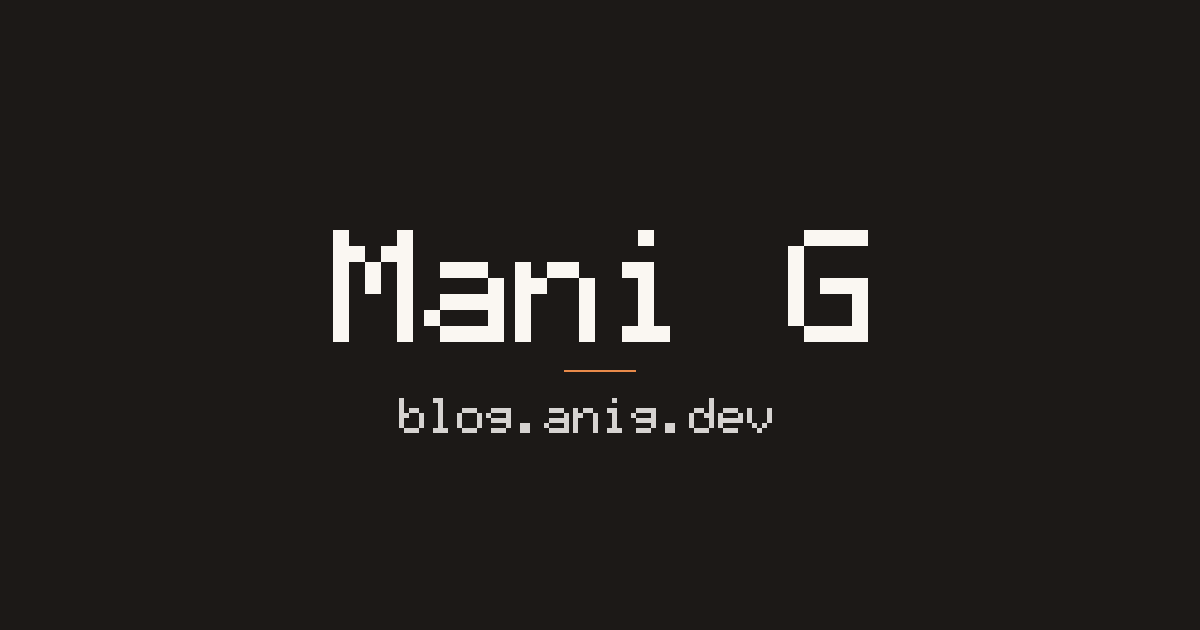
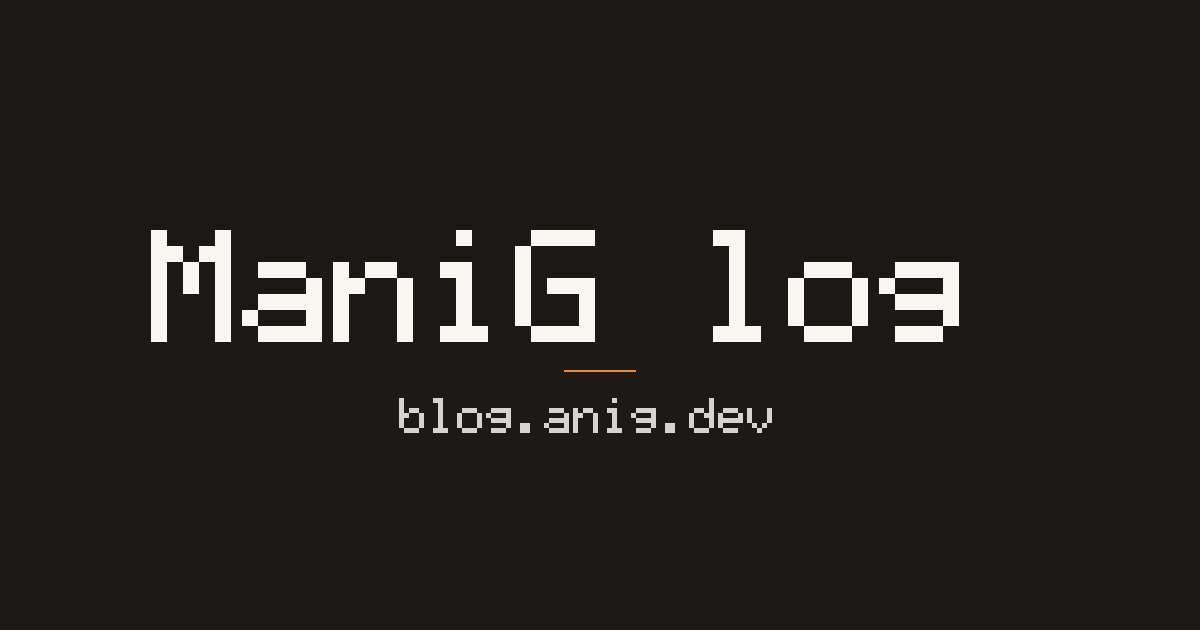
Rename site to ManiG Blog and link sitemap in header (#2)

Changed region(s): [[0.1233, 0.3619, 0.555, 0.5429], [0.5858, 0.3619, 0.8017, 0.5429]]

diff --git a/test/blog.spec.ts b/test/blog.spec.ts
@@ -92,17 +92,17 @@ describe('public HTML', () => {
     expect(response.status).toBe(200);
     expect(response.headers.get('content-type')).toContain('text/html');
     const html = await response.text();
-    expect(html).toContain('<title>Hello SEO · Mani G</title>');
+    expect(html).toContain('<title>Hello SEO · ManiG Blog</title>');
     expect(html).toContain('name="description" content="A short excerpt for search."');
     expect(html).toContain('rel="canonical" href="https://blog.manig.dev/blog/hello-seo"');
-    expect(html).toContain('property="og:title" content="Hello SEO · Mani G"');
+    expect(html).toContain('property="og:title" content="Hello SEO · ManiG Blog"');
     expect(html).toContain('property="og:description" content="A short excerpt for search."');
     expect(html).toContain('property="og:image" content="https://blog.manig.dev/og-default.png"');
     expect(html).toContain('property="og:url" content="https://blog.manig.dev/blog/hello-seo"');
     expect(html).toContain('property="og:type" content="article"');
     expect(html).toContain('property="article:published_time"');
     expect(html).toContain('name="twitter:card" content="summary_large_image"');
-    expect(html).toContain('name="twitter:title" content="Hello SEO · Mani G"');
+    expect(html).toContain('name="twitter:title" content="Hello SEO · ManiG Blog"');
     expect(html).toContain('name="twitter:description" content="A short excerpt for search."');
     expect(html).toContain('name="twitter:image" content="https://blog.manig.dev/og-default.png"');
     expect(html).toContain('"@type":"BlogPosting"');
@@ -137,7 +137,7 @@ describe('public HTML', () => {
     const home = await api('/');
     expect(home.status).toBe(200);
     const html = await home.text();
-    expect(html).toContain('<title>Mani G</title>');
+    expect(html).toContain('<title>ManiG Blog</title>');
     expect(html).toContain('href="/blog/hello-seo"');
     expect(html).toContain('Hello SEO');
     expect(html).toContain('href="/blog/legacy-post"');

diff --git a/client/index.html b/client/index.html
@@ -6,7 +6,7 @@
     <meta name="viewport" content="width=device-width, initial-scale=1.0" />
     <meta name="description" content="Admin for blog.manig.dev" />
     <meta name="robots" content="noindex" />
-    <title>Admin · Mani G</title>
+    <title>Admin · ManiG Blog</title>
   </head>
   <body>
     <div id="root"></div>

diff --git a/src/render.ts b/src/render.ts
@@ -247,6 +247,7 @@ ${options.home ? `<h1 class="wordmark"><a href="/">${SITE_NAME}</a></h1>` : `<a 
 <nav aria-label="Site">
 <a href="/">Writing</a>
 <a href="/rss.xml">RSS</a>
+<a href="/sitemap.xml">Sitemap</a>
 </nav>
 <button type="button" class="theme-toggle" id="theme-toggle" aria-pressed="false">Dark</button>
 </div>

diff --git a/client/src/App.tsx b/client/src/App.tsx
@@ -49,7 +49,7 @@ function HomePage() {
   return (
     <div className="home-page">
       <header className="hero">
-        <h1>Mani G</h1>
+        <h1>ManiG Blog</h1>
         <p className="tagline">Writing by Manivannan Gajendran</p>
       </header>
 

diff --git a/src/http.ts b/src/http.ts
@@ -1,4 +1,4 @@
-export const SITE_NAME = 'Mani G';
+export const SITE_NAME = 'ManiG Blog';
 export const DEFAULT_AUTHOR = 'Manivannan Gajendran';
 export const DEFAULT_DESCRIPTION = 'Writing by Manivannan Gajendran.';
 export const MAX_EXCERPT = 300;

diff --git a/README.md b/README.md
@@ -1,4 +1,4 @@
-# Mani G — blog.manig.dev
+# ManiG Blog — blog.manig.dev
 
 Personal blog for Manivannan Gajendran. Published posts are server-rendered HTML, so a browser with JavaScript turned off and a search crawler both see the title, description, and article. Drafts stay out of the site, the sitemap, the RSS feed, and the public API.
 
